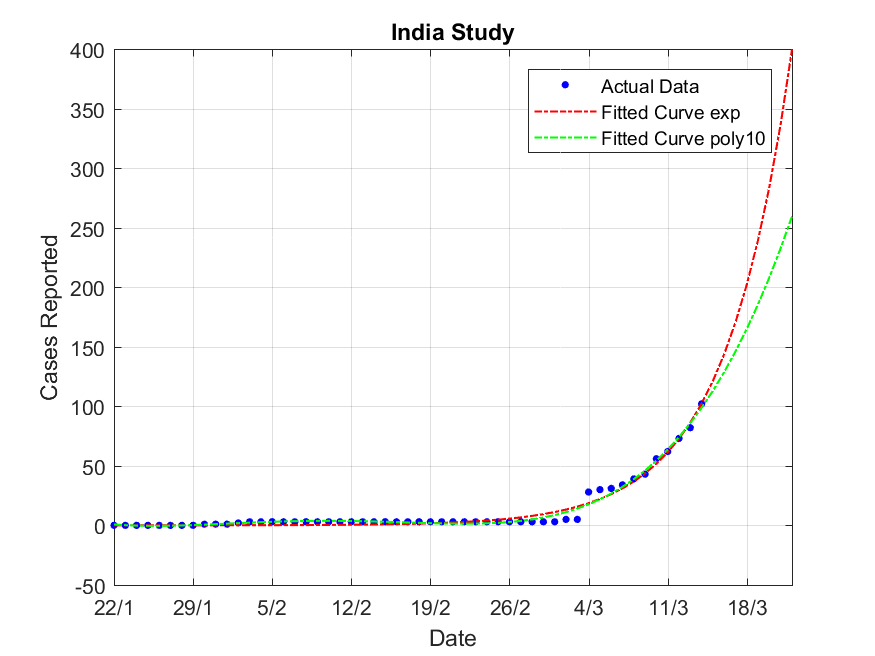
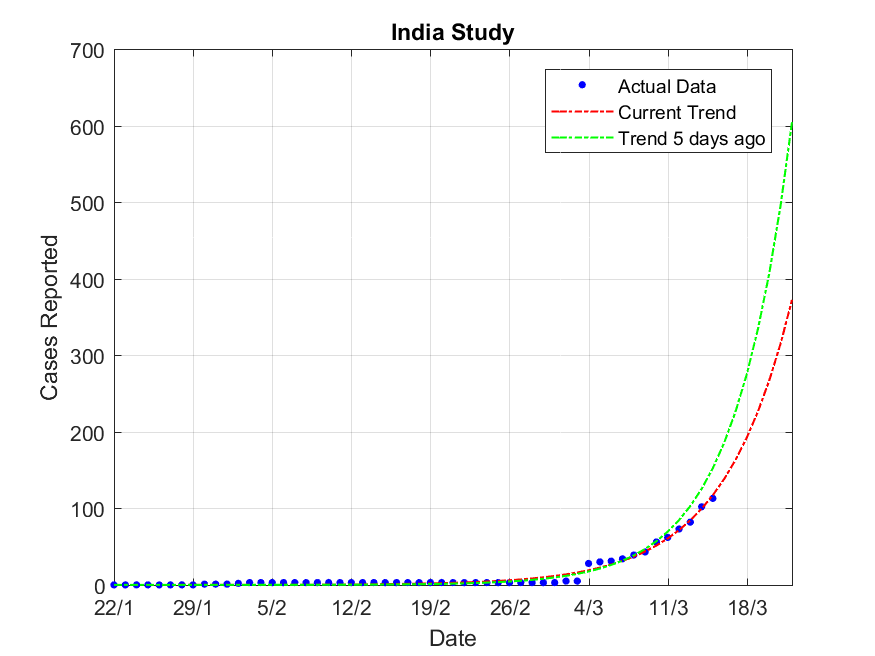
Add current trend and trend 5 days ago

diff --git a/curveFit.m b/curveFit.m
@@ -30,10 +30,13 @@ model1 = fit(isolatedDays', isolatedData', 'exp1');
 % plot fitted curve
 plot(dayVec,model1(dayVec),'-.r','LineWidth',1);
 
-% Poly fit 5
-model2 = polyfit(isolatedDays', isolatedData', 5);
-plot(dayVec,polyval(model2,dayVec),'-.g','LineWidth',1);
-legend('Actual Data','Fitted Curve exp', 'Fitted Curve poly10');
+% 4 days ago prediction
+isolatedData = indiaCases(1:numel(indiaCases)-5);
+isolatedDays = 0:(numel(indiaCases)-1-5);
+model2 = fit(isolatedDays', isolatedData', 'exp1');
+
+plot(dayVec,model2(dayVec),'-.g','LineWidth',1);
+legend('Actual Data','Current Trend', 'Trend 5 days ago');
 
 
 % Save data

diff --git a/README.md b/README.md
@@ -11,15 +11,19 @@ model1 =
      General model Exp1:
      model1(x) = a*exp(b*x)
      Coefficients (with 95% confidence bounds):
-       a =     0.01454  (0.005076, 0.02401)
-       b =      0.1704  (0.1572, 0.1835)
+       a =      0.0187  (0.008213, 0.02919)
+       b =       0.165  (0.1539, 0.1761)
 
 ```
 
-### 10th Order Poly
+### 5th Order Poly
 
 ```
-model2 =
-    0.0000    0.0001   -0.0060    0.1337   -0.7412    0.7496
+model2 = 
+     General model Exp1:
+     model2(x) = a*exp(b*x)
+     Coefficients (with 95% confidence bounds):
+       a =    0.004544  (-0.001348, 0.01044)
+       b =      0.1966  (0.1684, 0.2248)
 
 ```
